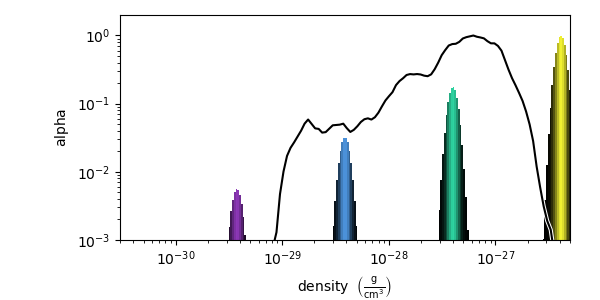
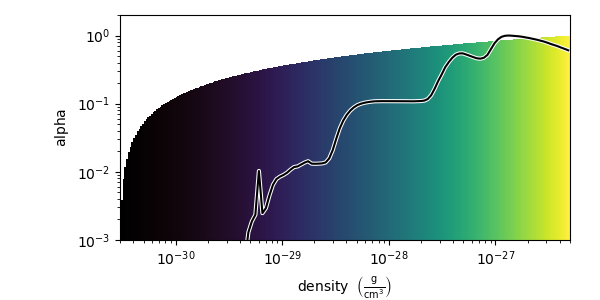
testing manual color map defintion

diff --git a/shawn/galaxy_visualizer.py b/shawn/galaxy_visualizer.py
@@ -8,6 +8,7 @@ from unyt import unyt_array
 import numpy as np
 import cmasher as cmr
 from unyt import unyt_array
+<<<<<<< Updated upstream
 import pyxsim, subprocess
 import numpy as np
 #import astropy.units as u
@@ -49,8 +50,40 @@ def inverted_centered_alpha_func(vals, min_val, max_val):
 
 def alpha_zero_at_zero(vals, min_val, max_val):
     return np.clip(np.abs(vals) / max(abs(min_val), abs(max_val)), 0.0, 1.0)
+=======
+>>>>>>> Stashed changes
 
 
+# Maps data values to alpha (opacity) values.
+# This function creates a linear ramp for opacity.
+def rising_alpha_func(vals, min_val, max_val):
+    # Linearly map values from their range [min_val, max_val]
+    # to a new range of [0.0 (transparent), 1.0 (opaque)]
+    return (vals - min_val) / (max_val - min_val)
+
+def falling_alpha_func(vals, min_val, max_val):
+    # Linearly map values from their range [min_val, max_val]
+    # to a new range of [0.0 (transparent), 1.0 (opaque)]
+    return 1 - (vals - min_val) / (max_val - min_val)
+
+def flat_alpha_func(vals, min_val, max_val, alpha=1.0):
+    # Returns a constant alpha value for all inputs
+    return np.full_like(vals, fill_value=alpha, dtype=float)
+
+def centered_alpha_func(vals, min_val, max_val):
+    mid = 0.5 * (min_val + max_val)
+    half_range = 0.5 * (max_val - min_val)
+    return 1.0 - np.abs(vals - mid) / half_range
+
+def inverted_centered_alpha_func(vals, min_val, max_val):
+    mid = 0.5 * (min_val + max_val)
+    half_range = 0.5 * (max_val - min_val)
+    return np.abs(vals - mid) / half_range
+
+def alpha_zero_at_zero(vals, min_val, max_val):
+    return np.clip(np.abs(vals) / max(abs(min_val), abs(max_val)), 0.0, 1.0)
+
+"""
 # The parameters pass for each field
 field_parameters = [
     {
@@ -106,6 +139,29 @@ field_parameters = [
         "label" : "Total_Density", 
         "sigma_clip" : 5, 
         "interpolation" : "bilinear"
+<<<<<<< Updated upstream
+=======
+    }
+]
+"""
+
+
+field_parameters = [
+    {
+        "field" : ("gas", "density"),
+        # Use "percentile" to get a percentile and "value" when you want to direct put in a value for the bound. 
+        # "min" gives you the smallest number and "max" gives you the biggest(smallest, largest)
+        "bounds" : [("value", 5e-29), ("max", None)], 
+        "use_grey_opacity" : True, # Make underdense regions appear opaque
+        "use_ghost_zones" : False, # Uses interpolated data around grid boundaries to smooth out visual artifacts. But will come at the cost of performance
+        "colormap" : "turbo", 
+        "alpha_function" : rising_alpha_func,
+        "use_log_space" : True, 
+        "file_location" : "shawn/", # The path to the folder you want the file to be saved at
+        "label" : "Density", 
+        "sigma_clip" : 5, # Removing values that are more than N standard deviations brighter than the mean of your image. Typically, a choice of 4 to 6.
+        "interpolation" : "bilinear" # "nearest" has no smoothing, "billinear" makes it smoother
+>>>>>>> Stashed changes
     }
 ]
 
@@ -158,6 +214,7 @@ def define_velocity_fields():
     yt.add_field(("gamer", "velocity_magnitude"), function=_velocity_magnitude, units="cm/s", sampling_type="cell", force_override=True)
 
 
+<<<<<<< Updated upstream
 def define_dark_matter_velocity_fields(all_data, L, N, c):
     # configure orientation of observer
     orient = Orientation(L, north_vector=N)
@@ -191,6 +248,8 @@ def define_dark_matter_velocity_fields(all_data, L, N, c):
              force_override=True)
 
 
+=======
+>>>>>>> Stashed changes
 def signed_velocity_magnitude(field, data):
     sign = np.sign(data[("gas", "velocity_x")])  # Source of sign
     magnitude = data[("gas", "velocity_magnitude")]  # Precomputed field
@@ -281,7 +340,13 @@ def main(
     # Define velocity fields
     define_velocity_fields()
     ds.add_field(("gamer", "signed_velocity"), function=signed_velocity_magnitude, units="cm/s", sampling_type="cell")
+<<<<<<< Updated upstream
     #define_dark_matter_velocity_fields(ad, L, N, center)
+=======
+    
+    # Gets CoM from particles (DM and stars) 
+    center = find_CoM(dataset = ds)
+>>>>>>> Stashed changes
 
     # Look at gas/particles within a sphere (not full simulation domain) 
     radius = (sphere_radius, sphere_radius_units)
@@ -292,6 +357,12 @@ def main(
     #total_density_in_sphere = sp[('gas', 'total_density')]  # Will probably be used in the future but not sure just yet
     #temperature_in_sphere = sp[('gas', 'temperature')]  # Same as above
 
+<<<<<<< Updated upstream
+=======
+    L = np.asarray([0.94, -0.10, 0.31]) / np.linalg.norm(np.asarray([0.94, -0.10, 0.31]))
+    N = np.array([L[1], -L[0], 0])
+
+>>>>>>> Stashed changes
     #sc = yt.create_scene(sp, field=None, lens_type="perspective")
     sc = yt.create_scene(sp, field=None, lens_type="plane-parallel")
     source = sc[0]
@@ -299,6 +370,10 @@ def main(
     # Set the camera to look at the region of interest
     cam = sc.camera
     cam.position = L
+<<<<<<< Updated upstream
+=======
+    cam.set_focus(center)
+>>>>>>> Stashed changes
     cam.north_vector = N
     cam.resolution = (resolution, resolution) # can lower resolution to 128 to prioritize faster rendering. 512 is the standard quality
     
